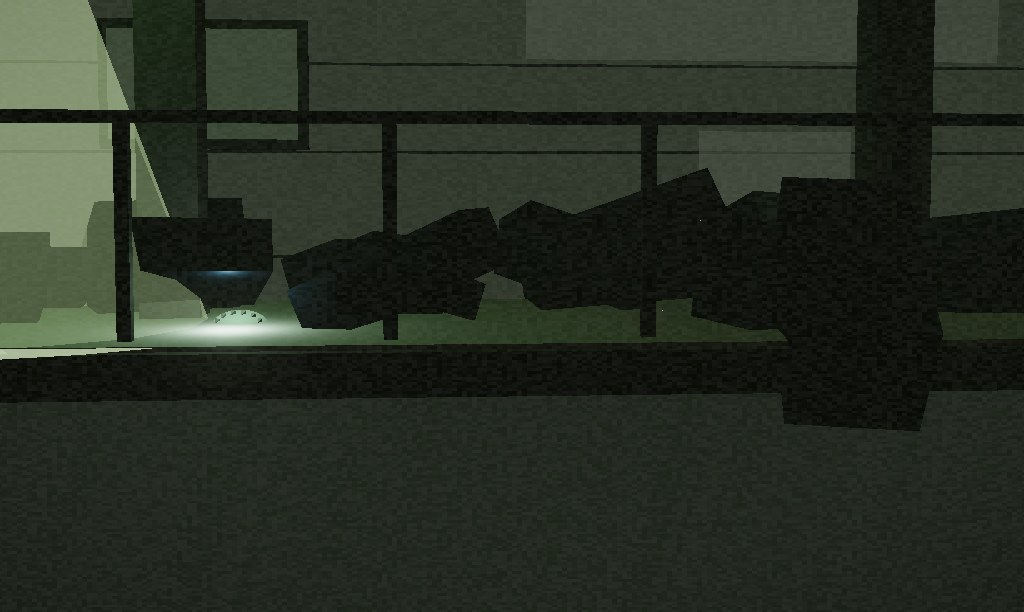
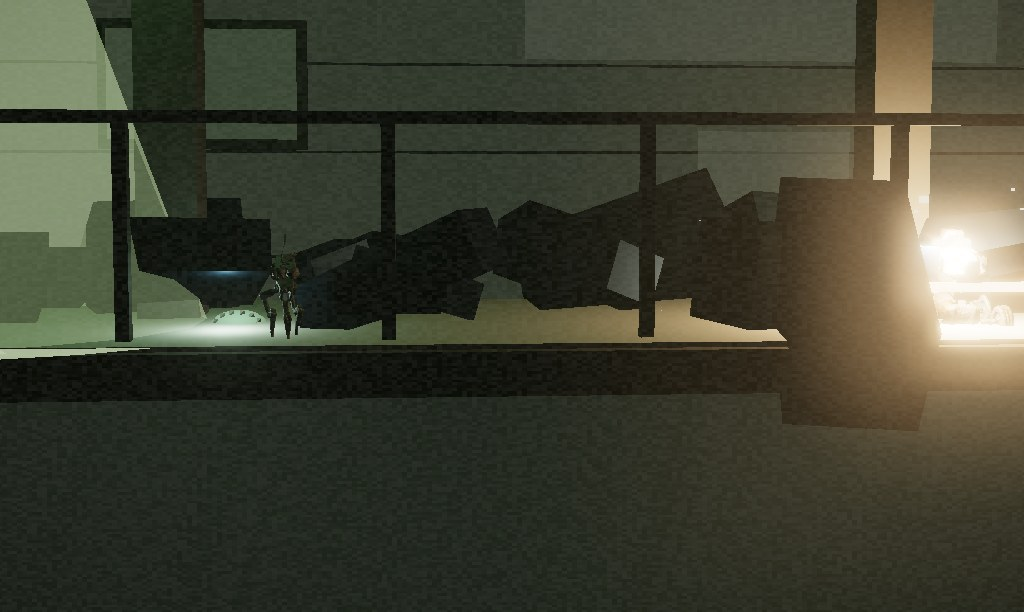
v0.0.1.26 feat(game): broken contact rail with sparks lifts station highlights 18x (0.001 -> 0.018)

diff --git a/games/pingchuan-rail/game/index.html b/games/pingchuan-rail/game/index.html
@@ -440,6 +440,45 @@ for (let index = 0; index < 7; index += 1) {
   glow.position.copy(lamp.position);
   scene.add(glow);
 }
+// ---- 断裂的接触轨：站台唯一的强光源（打火花），负责把动态范围撑开 ----
+const brokenRail = new THREE.Mesh(new THREE.BoxGeometry(5.2, 0.12, 0.16),
+  new THREE.MeshStandardMaterial({ color: 0x6b5a4a, roughness: 0.5, metalness: 0.8,
+    emissive: 0xffc99a, emissiveIntensity: 2.4, toneMapped: false }));
+brokenRail.position.set(40, 0.55, 1.4);
+scene.add(brokenRail);
+
+const sparkLight = new THREE.PointLight(0xffd6a8, 55, 14, 2);
+sparkLight.position.set(40, 1.1, 1.4);
+scene.add(sparkLight);
+
+// 火花：十几个小亮点，每 0.1 s 随机跳位置（比粒子系统便宜，观感够用）
+const sparkMaterial = new THREE.MeshBasicMaterial({ color: 0xfff2d6, toneMapped: false });
+const sparkGeometry = new THREE.BoxGeometry(0.05, 0.05, 0.05);
+const sparks = [];
+for (let index = 0; index < 14; index += 1) {
+  const spark = new THREE.Mesh(sparkGeometry, sparkMaterial);
+  spark.position.set(40, 0.9, 1.4);
+  scene.add(spark);
+  sparks.push({ mesh: spark, life: 0 });
+}
+
+function updateSparks(deltaSeconds) {
+  // 主光在放电时瞬间变亮，平时保持低亮：这是"有电"的感觉来源
+  const pulse = 0.55 + 0.45 * Math.abs(Math.sin(elapsedSeconds * 7.3)) *
+    (Math.sin(elapsedSeconds * 1.7) > 0.6 ? 1.6 : 0.55);
+  sparkLight.intensity = 55 * pulse;
+  brokenRail.material.emissiveIntensity = 1.2 + pulse * 2.6;
+  sparks.forEach((spark) => {
+    spark.life -= deltaSeconds;
+    if (spark.life <= 0) {
+      spark.life = 0.05 + randomFloat() * 0.16;
+      spark.mesh.position.set(37.6 + randomFloat() * 4.8, 0.5 + randomFloat() * 1.3,
+        1.4 + (randomFloat() - 0.5) * 1.2);
+      spark.mesh.scale.setScalar(0.5 + randomFloat() * 1.4);
+    }
+    spark.mesh.visible = spark.life > 0;
+  });
+}
 // 冷冻舱：球形舱室 + 淡蓝光（终点唯一的颜色）
 const cryoGroup = new THREE.Group();
 const cryoShell = new THREE.Mesh(new THREE.SphereGeometry(2.6, 24, 16, 0, Math.PI * 2, 0, Math.PI / 2),
@@ -945,6 +984,7 @@ function frame() {
     updateCheckpoints();
     updateScanner(deltaSeconds);
   updateFlickerLamps();
+  updateSparks(deltaSeconds);
   }
   updateWormVisual();
   updateDustParticles(deltaSeconds);

diff --git a/games/pingchuan-rail/SPEC.md b/games/pingchuan-rail/SPEC.md
@@ -301,6 +301,22 @@ MOSS 从"完全没有光"（高光 0.002）变成有光（0.007），但把 `#7f
 - **站台动态**：两盏灯 2 Hz 不稳定闪烁（幅度 0.25，别变成鬼屋）+ 锥内/全局粉尘缓慢下飘；
 - **惯性手感**（SPEC 3.5）：按住立即走，松手后金属面按 `exp(-1.4t)` 继续滑行，粉尘面立刻停；
   注意第一版写错了——按住时又叠加了一次滑行，等于双倍速，已修正为按住时 `carried = 0`。
+## 9.8 站台强光源（2026-11-16，第四轮）
+
+站台动态范围不足（对比 112 vs 参考 179、高光 0.001 vs 0.072），根因是**画面里没有高亮的大面积光源**。
+补一条「断裂的接触轨在打火花」：自发光轨体（toneMapped:false）+ 55 强度点光 + 14 颗每 0.05-0.2 s 跳位的火花，
+亮度用两个不同频率的正弦相乘做"放电脉冲"。
+
+| 指标 | 改前 | 改后 | 参考 |
+|---|---|---|---|
+| 对比 | 112.4 | **117.5** | 179.4 |
+| 高光 | 0.001 | **0.018** | 0.072 |
+| 细节 | 0.0140 | 0.0154 | 0.0269 |
+| 熵 | 3.29 | **3.75** | 4.31 |
+
+**结论**：高光涨了 18 倍、熵从 3.29 到 3.75，但仍不到参考的一半。剩下的差距不是"没光源"，
+而是**参考图整片地板都被过曝的粉尘照亮**——实时渲染要追就得牺牲暗部，所以停手，
+把"站台偏暗"记成已知差异（与 SPEC 9.5 同一结论）。
 ## 10. 验收（做完了的判据）
 
 - [ ] 三个固定位置（站台、轨道深沟、竖井）都有"参考视频 | 游戏"并排图
